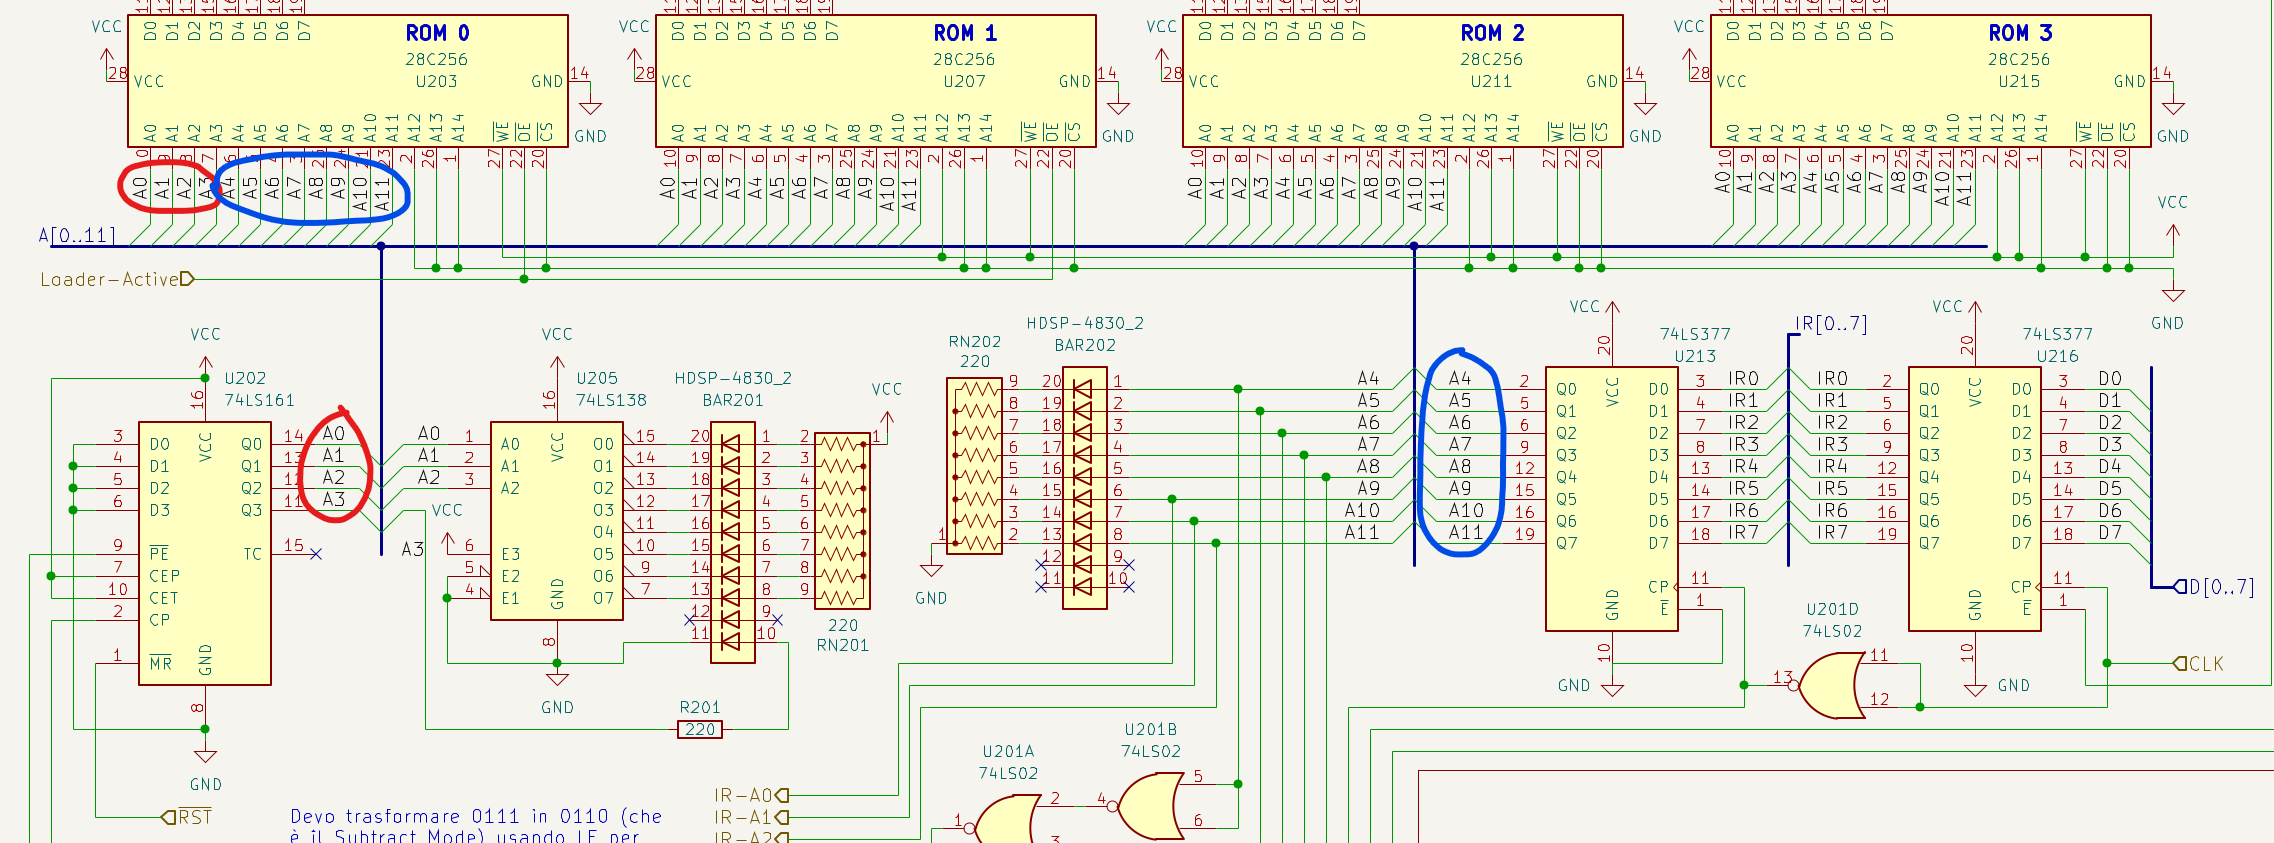
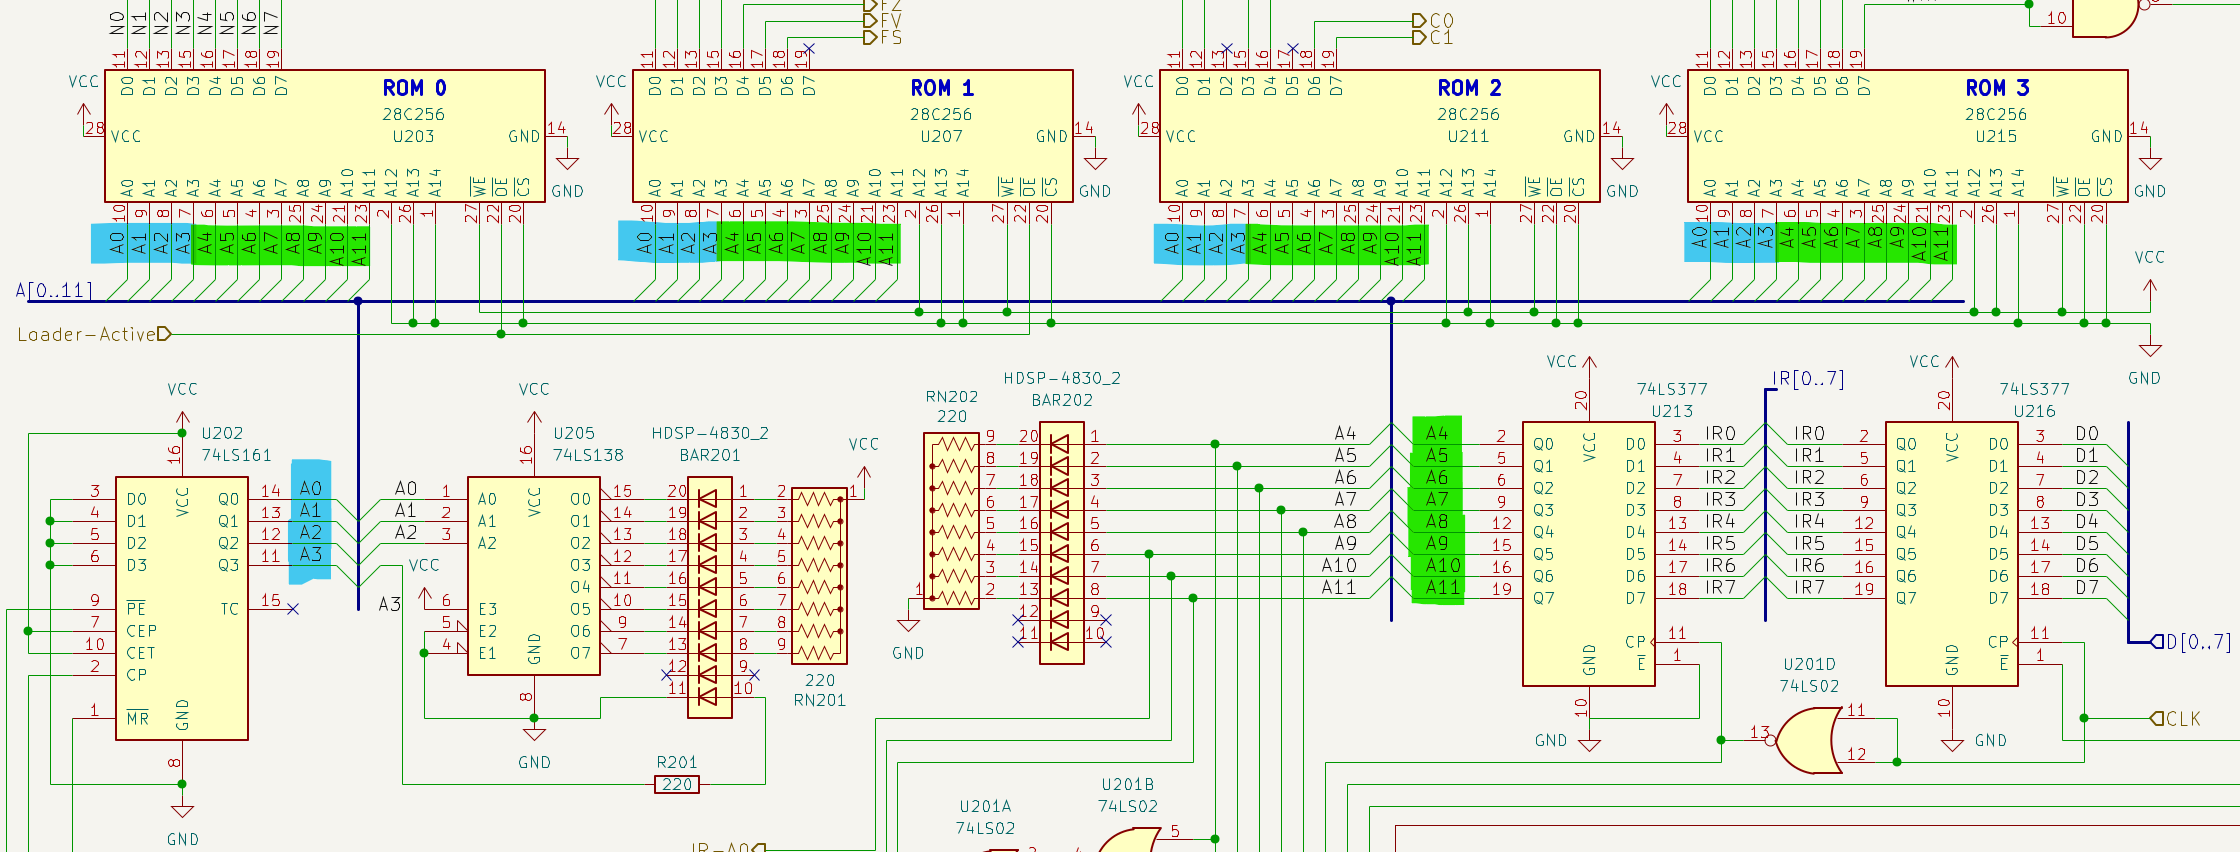
Update CL RC

diff --git a/docs/_docs/40-control.md b/docs/_docs/40-control.md
@@ -200,7 +200,7 @@ Come detto poc’anzi, la combinazione generata dall'opcode contenuto nell’Ins
 
 *Output di IR ed RC e input delle EEPROM del BEAM*.
 
-Nell'immagine seguente si può osservare che le uscite del contatore '161 controllano anche un '138, che viene utilizzato per visualizzare lo stato dell'RC. Anziché impiegare 16 LED (e due '138), un singolo LED "esteso" è pilotato dal pin più significativo del '161, che ha un valore pari ad 8: lo step correntemente in esecuzione sarà indicato dal LED acceso dal '138, al quale sommare 8 se il LED "esteso" è acceso.
+Nell'immagine si può osservare che le uscite del contatore controllano anche il demultiplexer, che viene utilizzato per visualizzare lo stato dell'RC. Anziché impiegare 16 LED (e due '138), un singolo LED "esteso" è pilotato dal pin più significativo del '161, che ha un valore pari ad 8: lo step correntemente in esecuzione sarà indicato dal LED acceso dal '138, al quale sommare 8 se il LED "esteso" è acceso.
 
 Riassumendo, l'Instruction Register contiene l'Opcode dell'istruzione attualmente in esecuzione, mentre il Ring Counter ne indica lo step attivo. Utilizzando una logica combinatoria, è possibile costruire il microcode da caricare nelle EEPROM, che emetteranno gli opportuni segnali (Control Word) per ogni step di ogni istruzione.
 
